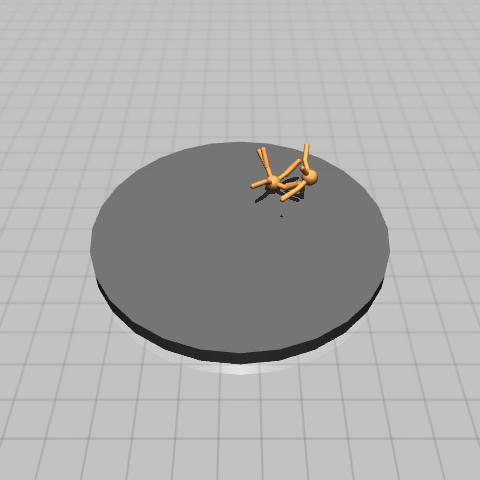
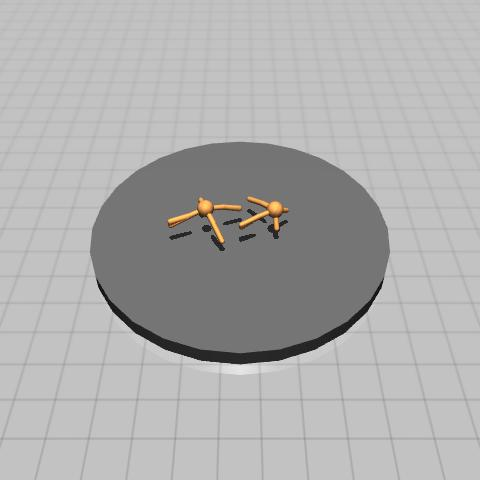
evoant_sumo

Changed region(s): [[0.3438, 0.2812, 0.6875, 0.5312]]

diff --git a/runner/multi_evo_agent_runner.py b/runner/multi_evo_agent_runner.py
@@ -627,12 +627,12 @@ class MultiEvoAgentRunner(BaseRunner):
                 next_states, env_rewards, terminateds, truncated, infos = self.env.step(actions)
                 
                 # 使用 MuJoCo 的渲染方法
-                frame = self.env.env_scene.mujoco_renderer.render(render_mode='rgb_array')
+                # frame = self.env.env_scene.mujoco_renderer.render(render_mode='rgb_array')
 
-                # #保存图片
-                img = Image.fromarray(frame)
-                img.save('test.jpg')
-                imgs.append(img)
+                # # #保存图片
+                # img = Image.fromarray(frame)
+                # img.save('test.jpg')
+                # imgs.append(img)
 
                 # if len(infos) >1:
                 #     frame = infos[-1]
@@ -676,8 +676,8 @@ class MultiEvoAgentRunner(BaseRunner):
             
             total_reward.append(episode_reward)
 
-            if _ == 0:
-                imgs[0].save('test_devhuman.gif', save_all=True, append_images=imgs[1:], duration=30, loop=0)
+            # if _ == 0:
+            #     imgs[0].save('test_devhuman.gif', save_all=True, append_images=imgs[1:], duration=30, loop=0)
 
         def average(list):
             total = sum(list)

diff --git a/competevo/evo_envs/robo_sumo_evo.py b/competevo/evo_envs/robo_sumo_evo.py
@@ -180,9 +180,10 @@ class RoboSumoEvoEnv(MultiEvoAgentEnv):
 
         for i, agent in self.agents.items():
             self_xyz = agent.get_qpos()[:3]
-            if not (np.isfinite(agent.get_qpos()).all() and np.isfinite(agent.get_qvel()).all() and (self_xyz[2] > 0.29 + self.arena_height) and (self_xyz[2]  < 0.8 + self.arena_height)):
-                dones[i] = True
-                game_done = True
+            if not (np.isfinite(agent.get_qpos()).all() and np.isfinite(agent.get_qvel()).all() and (self_xyz[2] > 0.29 + self.arena_height) and (self_xyz[2]  < 1.0 + self.arena_height)):
+                # dones[i] = True
+                # game_done = True
+                infos[i]['lose_penalty'] = -infos[i]['alive_reward']
             # Loose penalty
             infos[i]['lose_penalty'] = 0.
             if (self_xyz[2] < 0.29 + self.arena_height or
